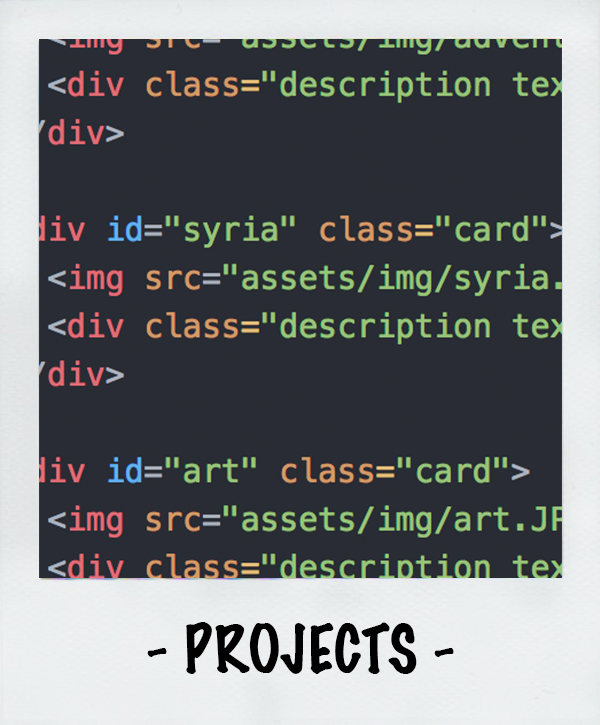
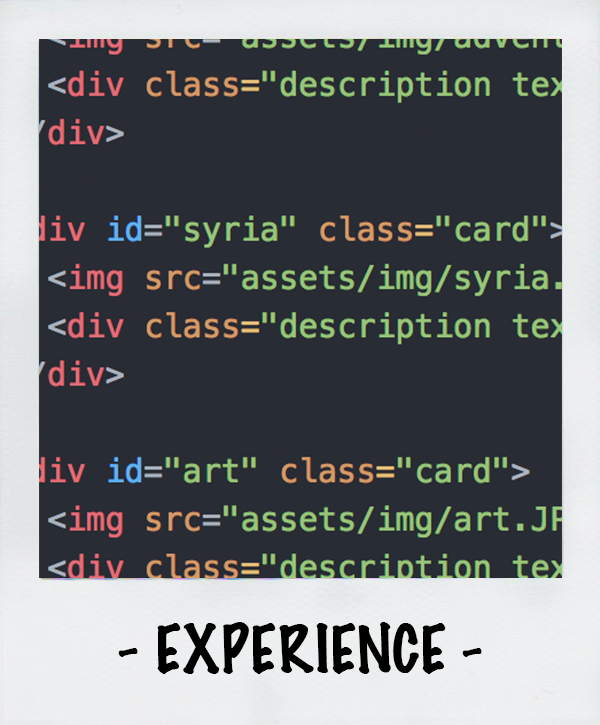
updated experience section
updated experience section

Changed region(s): [[0.18, 0.8497, 0.81, 0.9407]]

diff --git a/index.html b/index.html
@@ -92,11 +92,20 @@
         <div class="text title">Sustainable Materials Based Electronics Project</div>
         <div class="text">Designed an earthquake sensor prototype using sustainable and low-cost materials under Prof. Muhammad Hussain.</div>
         <div class="text">Built using TI MSP430 microcontroller, LEDs, and 3D printed designs.</div>
-        <div class="text bold mtext"> </div>
-        <div class="text bold mtext"> </div>
-        <div class="text bold mtext"><a href="assets/pdf/Resume.pdf" target="_blank" class="hover-underline nostyle">Check out my resume here!</a></div>
       </div>
     </div>
+    <div id="code-text-container-left">
+      <div class="code-inner-text">
+        <div class="text hello">experience</div>
+        <div class="text title">Software engineering intern at <a href="https://www.viasat.com/" target="_blank" class="hover-underline nostyle">Viasat</a></div>
+        <div class="text">May - August, 2020</div>
+        <div class="text">Designed updates in Software Configuration Index to document improvements in software deployment process.</div>
+        <div class="text">Implemented features to support independent container images as part of platform refactoring initiative.</div>
+        <div class="text">Added component acceptance tests to verify software updates.</div>
+      </div>
+    </div>
+    <a href="assets/pdf/Resume.pdf" target="_blank" class="hover-underline nostyle"><img src="assets/img/resume.png" alt="resume" id="resume" class="card zoom"></a>
+    <img src="assets/img/viasat.png" alt="viasat" id="viasat" class="card zoom">
     <div id="back-to-top-3" class="text ttext link hover-underline">Back to top</div>
 
     <div id="art-text-container">
@@ -216,6 +225,10 @@
 
     <div id="dubai" class="card zoom">
       <img src="assets/img/dubai.png" alt="dubai" id="dubaipic">
+    </div>
+
+    <div id="merlion" class="card zoom">
+      <img src="assets/img/merlion.png" alt="merlion" id="merlionpic">
     </div>
 
     <img src="assets/img/camera.png" alt="camera" id="camera" class="card zoom">

diff --git a/assets/css/style.css b/assets/css/style.css
@@ -40,10 +40,17 @@ body {
 }
 
 #code-text-container {
-  width: 450px;
+  width: 400px;
   position: absolute;
   top: 300%;
-  right: 10%;
+  right: 8%;
+}
+
+#code-text-container-left {
+  width: 400px;
+  position: absolute;
+  top: 300%;
+  right: 45%;
 }
 
 #lights-text-container {
@@ -278,13 +285,13 @@ body {
   width: 90px;
 }
 
-#bug {
-  top: 28%;
-  left: 33%;
+#kaiping {
+  top: 25%;
+  left: 34%;
 }
 
-#bug img {
-  width: 80px;
+#kaiping img {
+  width: 70px;
 }
 
 #portrait {
@@ -292,7 +299,7 @@ body {
   left: 15%;
 }
 
-#lights {
+#engineering {
   top: 16%;
   left: 68%;
 }
@@ -307,7 +314,7 @@ body {
   left: 55%;
 }
 
-#engineering {
+#lights {
   top: 7%;
   left: 41%;
 }
@@ -330,12 +337,12 @@ body {
 }
 
 #instagram {
-  top: 2%;
+  top: 35%;
   left: 60%;
 }
 
 #instagram img {
-  width: 90px;
+  width: 70px;
 }
 
 #beach {
@@ -356,17 +363,17 @@ body {
   width: 90px;
 }
 
-#kaiping {
+#bug {
   top: 48%;
-  left: 49%;
+  left: 45%;
 }
 
-#kaiping img {
+#bug img {
   width: 50px;
 }
 
 #library {
-  top: 85%;
+  bottom: 2%;
   left: 48%;
 }
 
@@ -390,6 +397,15 @@ body {
 #dubai {
   top: 54%;
   left: 85%;
+}
+
+#merlion img {
+  width: 75px;
+}
+
+#merlion {
+  top: 2%;
+  left: 65%;
 }
 
 #camera {
@@ -417,12 +433,35 @@ body {
 #group {
   left: 7%;
   top: 258%;
-  width: 200px;
+  width: 210px;
   transform: rotate(-15deg);
   box-shadow: 0 1px 6px rgba(0, 0, 0, 0.2);
 }
 
 #group:hover {
+  transform: scale(1.1);
+}
+
+#resume {
+  left: 7%;
+  top: 355%;
+  width: 230px;
+  transform: rotate(-10deg);
+  box-shadow: 0 1px 6px rgba(0, 0, 0, 0.2);
+}
+
+#resume:hover {
+  transform: scale(1.1);
+}
+
+#viasat {
+  left: 55%;
+  top: 303%;
+  width: 150px;
+  transform: rotate(8deg);
+}
+
+#viasat:hover {
   transform: scale(1.1);
 }
 
